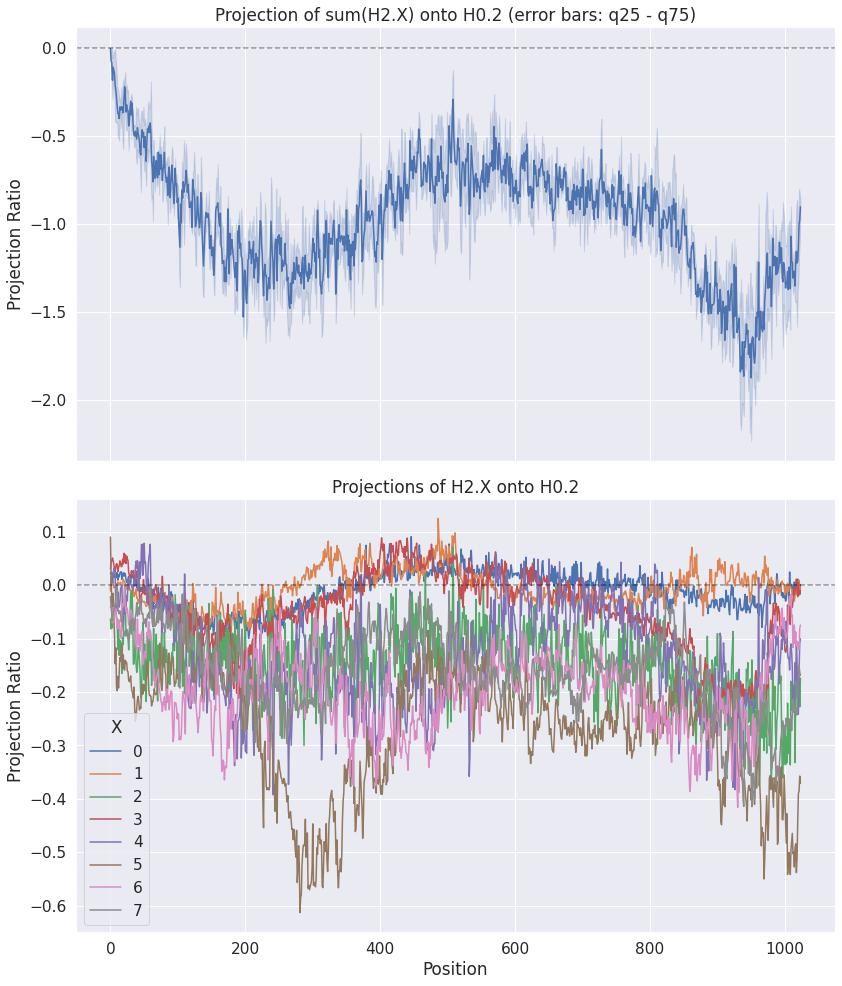
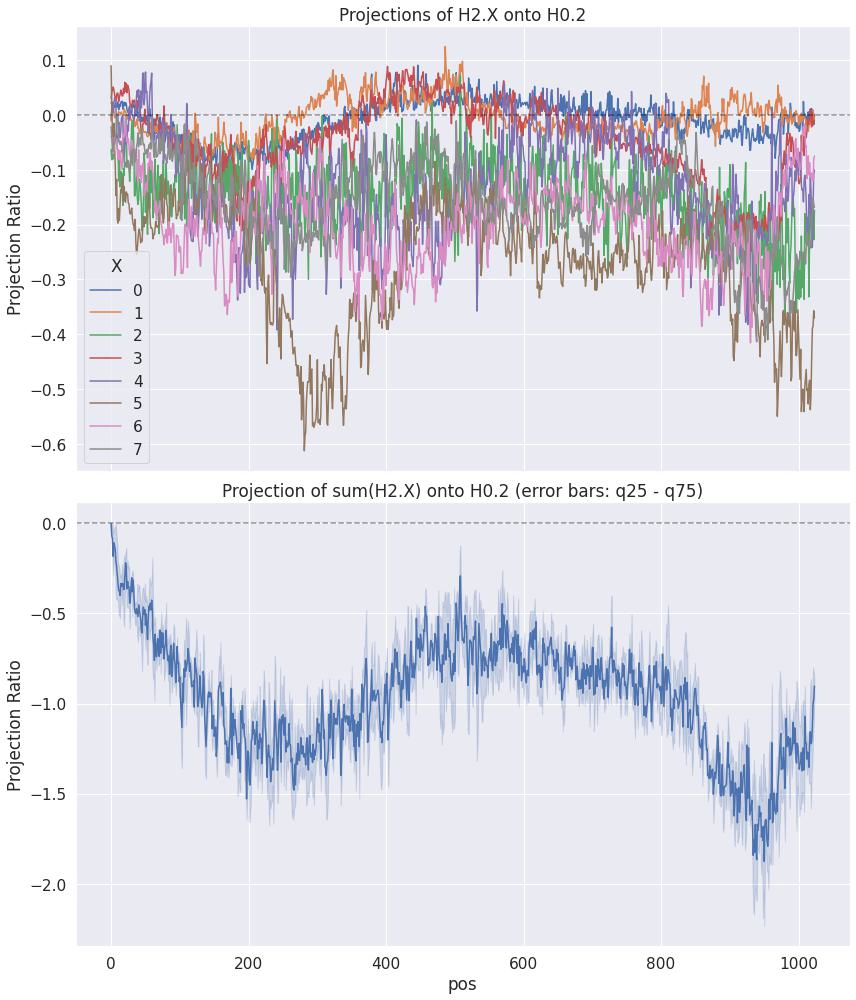
switch subplots for fig4

diff --git a/figure_recreation/fig4_H2_X_lineplots.py b/figure_recreation/fig4_H2_X_lineplots.py
@@ -81,29 +81,29 @@ fig, ax = plt.subplots(2, 1, figsize=(12, 14), sharex=True)
 
 # Subplot 1
 sns.lineplot(
-    data=df_sum,
-    x="pos",
-    y="projection_ratio",
-    errorbar=("pi", 75),
-    ax=ax[0],
-)
-ax[0].axhline(0, ls="--", color="black", alpha=0.4)
-ax[0].set_title("Projection of sum(H2.X) onto H0.2 (error bars: q25 - q75)")
-ax[0].set_ylabel("Projection Ratio")
-
-# Subplot 2
-sns.lineplot(
     data=df.groupby(["head", "pos"]).mean().reset_index(),
     x="pos",
     y="projection_ratio",
     hue="head",
+    ax=ax[0],
+)
+ax[0].axhline(0, ls="--", color="black", alpha=0.4)
+ax[0].set_title("Projections of H2.X onto H0.2")
+ax[0].set_xlabel("Position")
+ax[0].set_ylabel("Projection Ratio")
+ax[0].legend(title="X")
+
+# Subplot 2
+sns.lineplot(
+    data=df_sum,
+    x="pos",
+    y="projection_ratio",
+    errorbar=("pi", 75),
     ax=ax[1],
 )
 ax[1].axhline(0, ls="--", color="black", alpha=0.4)
-ax[1].set_title("Projections of H2.X onto H0.2")
-ax[1].set_xlabel("Position")
+ax[1].set_title("Projection of sum(H2.X) onto H0.2 (error bars: q25 - q75)")
 ax[1].set_ylabel("Projection Ratio")
-ax[1].legend(title="X")
 
 fig.tight_layout()
 
